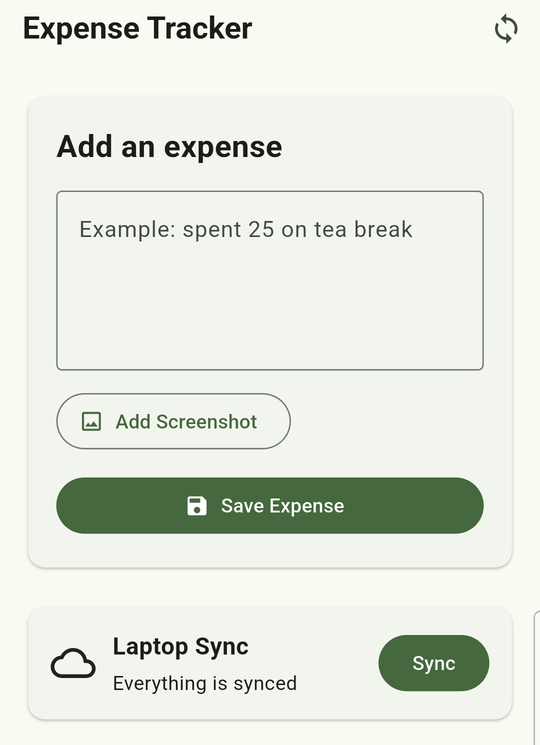
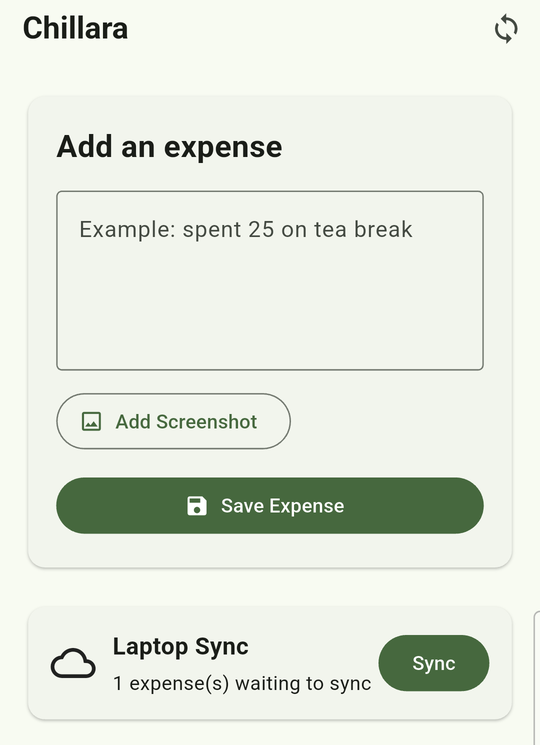
Rename the app to Chillara
Chillara is Malayalam for small change. Update the launcher and
notification-listener labels, the in-app title, iOS bundle names, web
manifest and title, and the README (with a refreshed screenshot).
The package ID and repository name are unchanged.

Claude-Session: https://claude.ai/code/session_011WAXydwdgm1rxeHzHtTCyq

Changed region(s): [[0.0296, 0.0, 0.4741, 0.0617], [0.2074, 0.8953, 0.6815, 0.9262]]

diff --git a/lib/main.dart b/lib/main.dart
@@ -20,7 +20,7 @@ class ExpenseApp extends StatelessWidget {
   Widget build(BuildContext context) {
     return MaterialApp(
       debugShowCheckedModeBanner: false,
-      title: 'Expense Tracker',
+      title: 'Chillara',
       theme: ThemeData(
         colorScheme: ColorScheme.fromSeed(
           seedColor: Colors.green,
@@ -490,7 +490,7 @@ class _ExpenseHomePageState
     return Scaffold(
       appBar: AppBar(
         title: const Text(
-          'Expense Tracker',
+          'Chillara',
           style: TextStyle(
             fontWeight: FontWeight.bold,
           ),

diff --git a/web/index.html b/web/index.html
@@ -23,13 +23,13 @@
   <!-- iOS meta tags & icons -->
   <meta name="mobile-web-app-capable" content="yes">
   <meta name="apple-mobile-web-app-status-bar-style" content="black">
-  <meta name="apple-mobile-web-app-title" content="expense_tracker">
+  <meta name="apple-mobile-web-app-title" content="Chillara">
   <link rel="apple-touch-icon" href="icons/Icon-192.png">
 
   <!-- Favicon -->
   <link rel="icon" type="image/png" href="favicon.png"/>
 
-  <title>expense_tracker</title>
+  <title>Chillara</title>
   <link rel="manifest" href="manifest.json">
 </head>
 <body>

diff --git a/README.md b/README.md
@@ -1,6 +1,8 @@
-<p align="center"><img src="docs/images/icon.png" alt="Expense Tracker icon" width="112"></p>
+<p align="center"><img src="docs/images/icon.png" alt="Chillara icon" width="112"></p>
 
-<h1 align="center">Expense Tracker</h1>
+<h1 align="center">Chillara</h1>
+
+<p align="center"><i>chillara</i> (Malayalam) — small change. A private, offline-first expense tracker for everyday spends.</p>
 
 **Log an expense in two seconds, offline, in plain words — let a local AI on your laptop turn it into clean data.**
 
@@ -190,7 +192,7 @@ Giving your laptop a fixed IP in your router settings saves you from updating it
 
   *Example:* limit 300, it's Wednesday, you spent 200 on Monday and 250 on Tuesday → **450** available today.
 
-**Auto-log from notifications** — tap **Enable** on the card on the Expenses tab and allow notification access for *Expense Tracker*. New debit alerts appear in the log the next time you open the app and are parsed on the next sync.
+**Auto-log from notifications** — tap **Enable** on the card on the Expenses tab and allow notification access for *Chillara*. New debit alerts appear in the log the next time you open the app and are parsed on the next sync.
 
 ---
 
